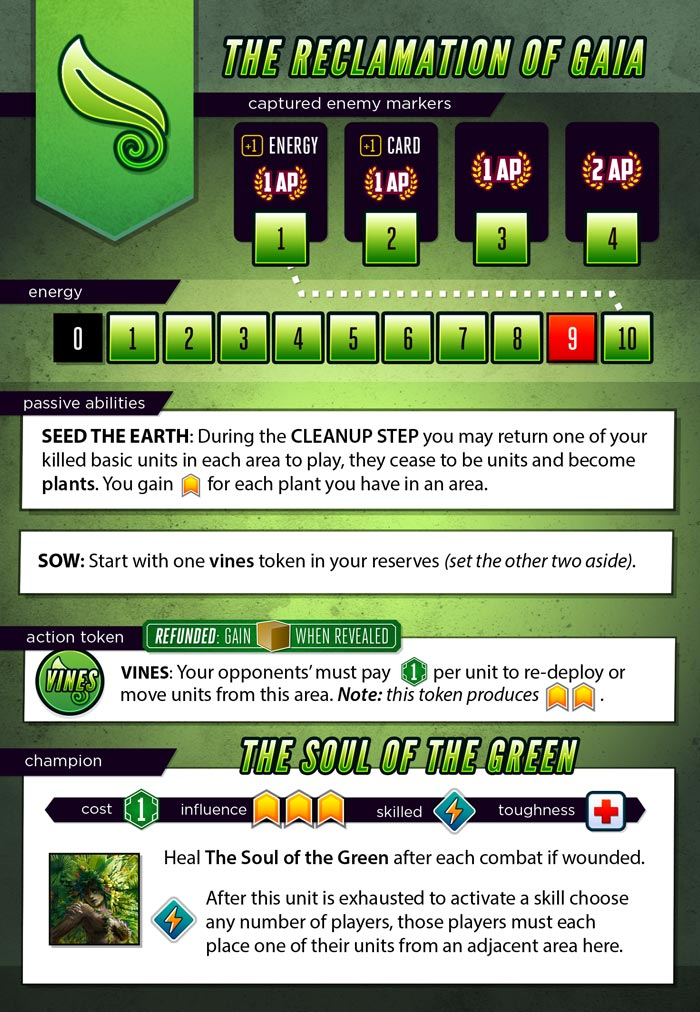
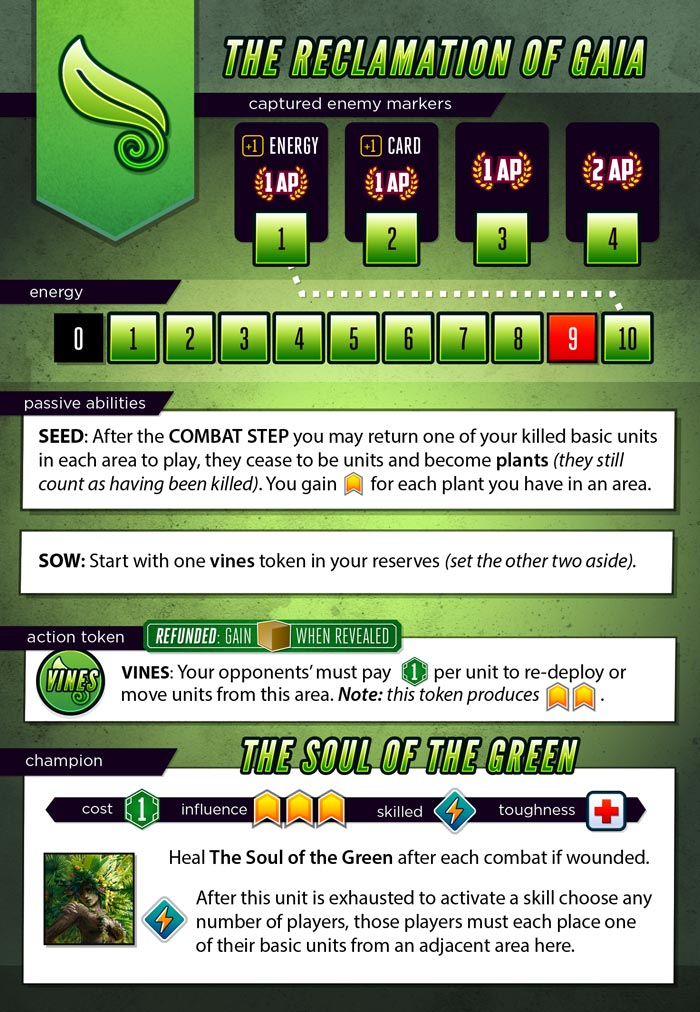
Update faction sheets for Bureau and Plants, and set hackers status to 1

diff --git a/server/classes/data/factionList.js b/server/classes/data/factionList.js
@@ -11,7 +11,7 @@ let obj = {
     swarm : { name: 'swarm', owner : null, status : 3 },
     vampires : { name: 'vampires', owner : null, killer : true, status : 2 },
     society : { name: 'society', owner : null, status : 1 },
-    hackers : { name: 'hackers', owner : null, status : 0 },
+    hackers : { name: 'hackers', owner : null, status : 1 },
     ninjas : { name: 'ninjas', owner : null, killer : true, status : 0 },
     guerrillas : { name: 'guerrillas', owner : null, killer : true, status : 1 },
     parasites : { name: 'parasites', owner : null, status : 1 },
